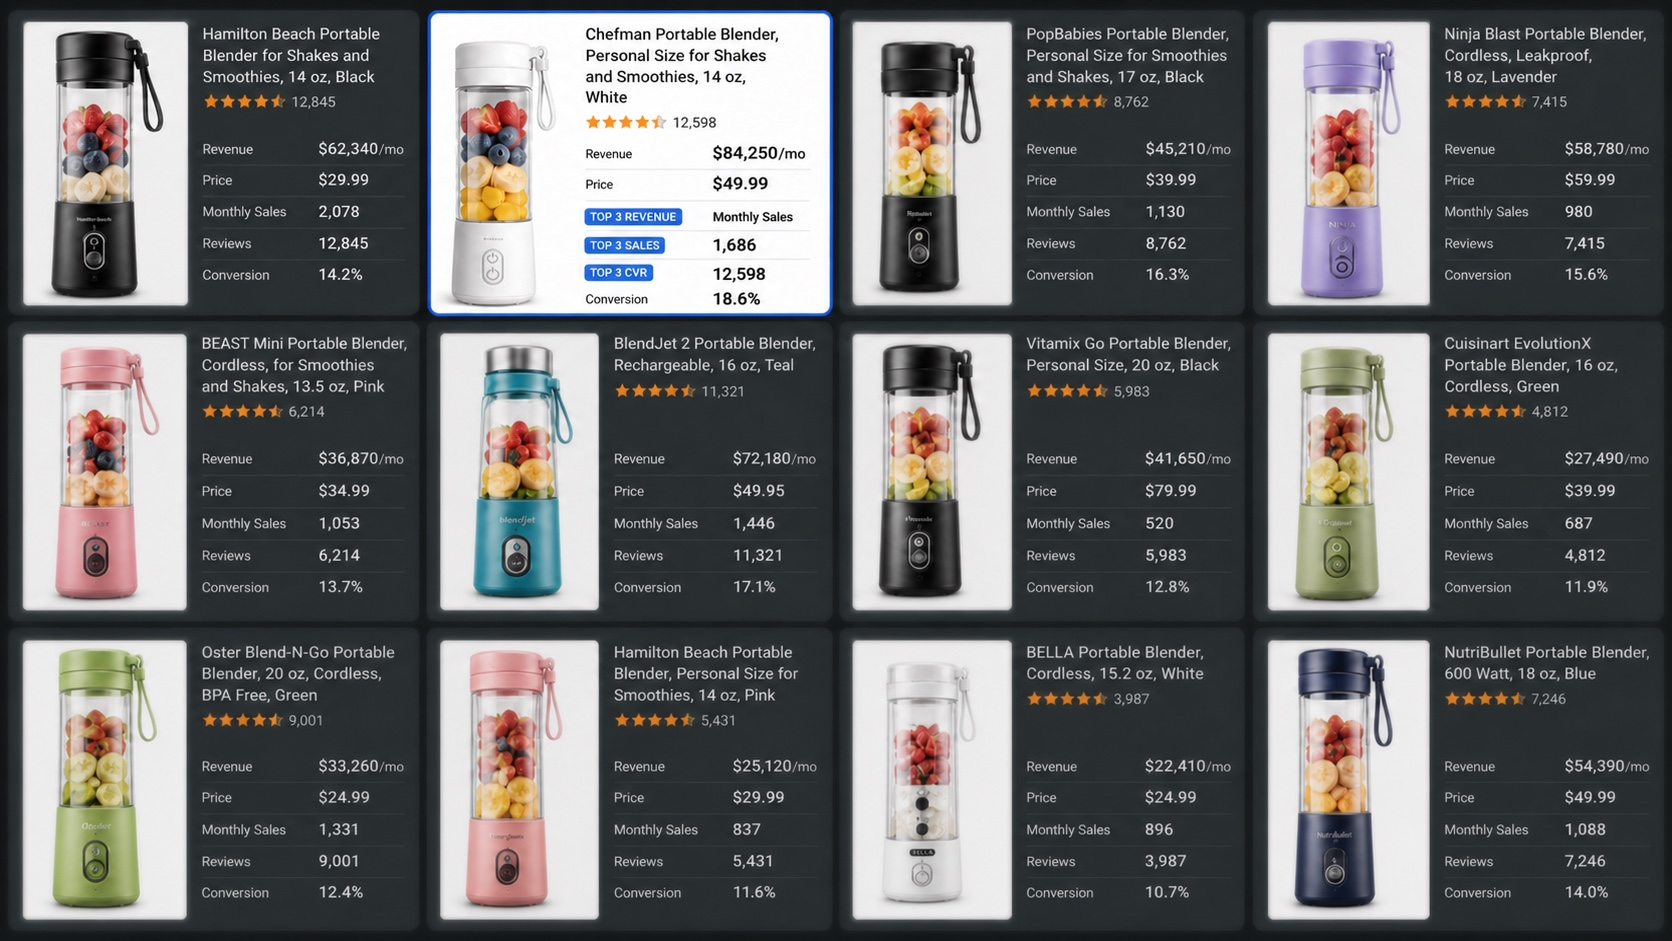
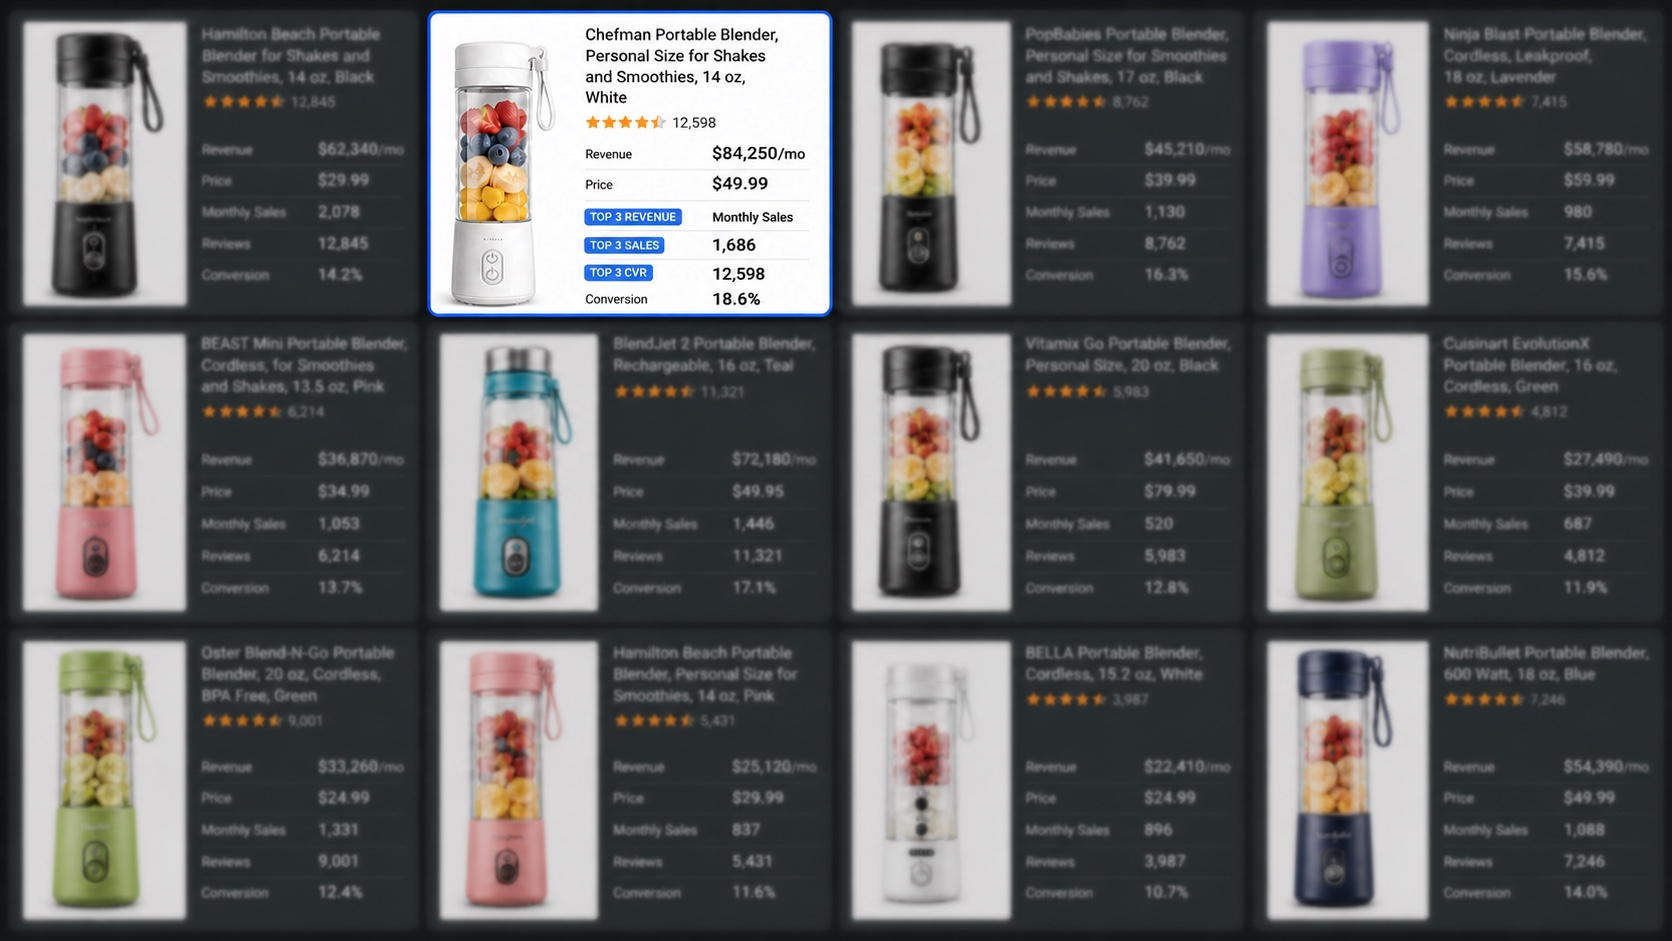
Increase competitor card blur

diff --git a/index.html b/index.html
@@ -549,7 +549,7 @@
 
     <div class="res">
       <div class="rcard rv">
-        <div class="viz viz-shot viz-fill"><img src="assets/img/process/competitor-teardown.jpg?v=81134fb5" alt="Portable blender competitor listings with the top performer highlighted by revenue, sales and conversion" loading="lazy" decoding="async"></div>
+        <div class="viz viz-shot viz-fill"><img src="assets/img/process/competitor-teardown.jpg?v=9173e340" alt="Portable blender competitor listings with the top performer highlighted by revenue, sales and conversion" loading="lazy" decoding="async"></div>
         <div>
           <h4>Competitor teardown</h4>
           <p>Revenue, price, reviews and conversion across the category. The strongest listings reveal the gap to target.</p>
